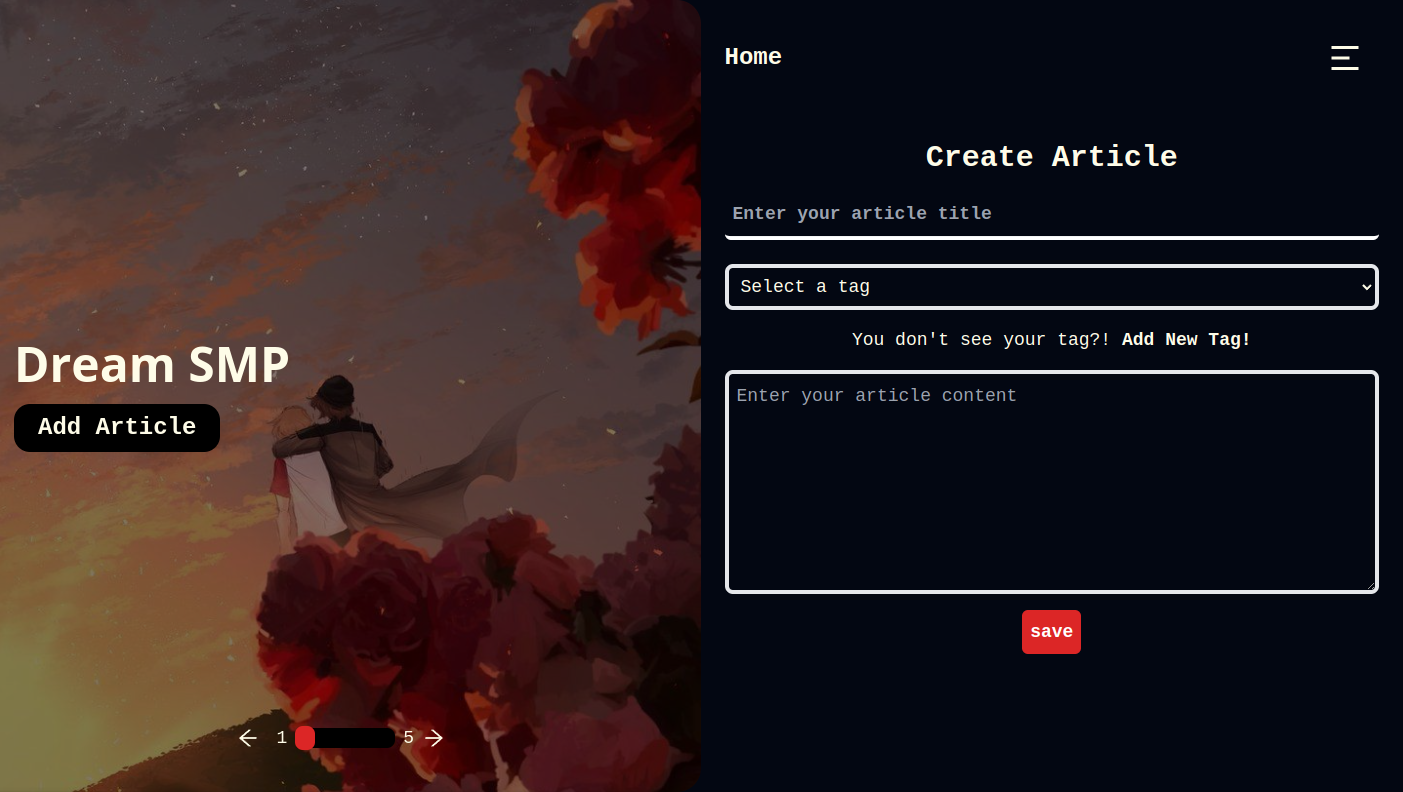
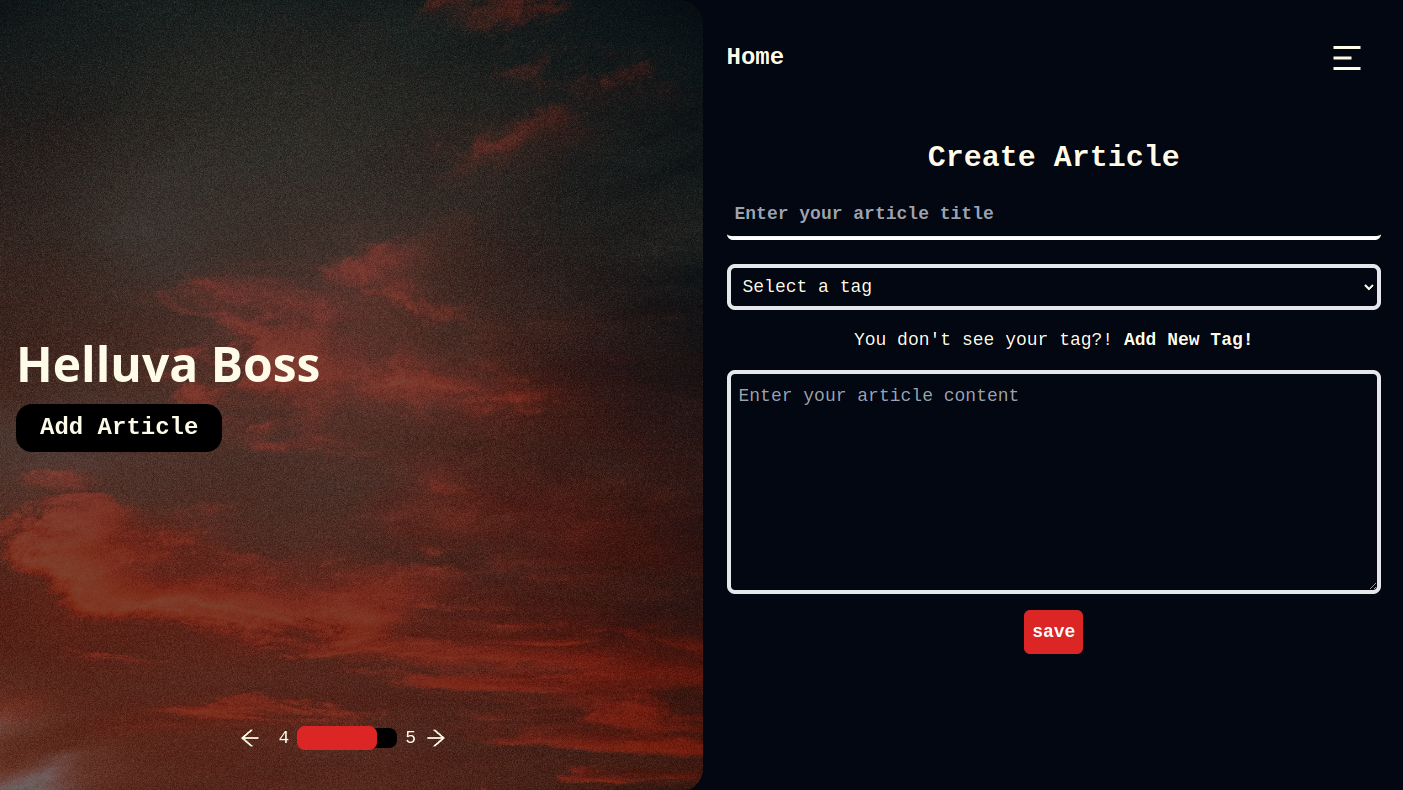
Add Delete an Article And Change a  Presentation

diff --git a/front/src/pages/Articles/ShowArticle/ShowArticle.jsx b/front/src/pages/Articles/ShowArticle/ShowArticle.jsx
@@ -1,6 +1,6 @@
 import React, { useEffect, useState } from 'react'
 import { $axios } from '../../../api'
-import { useParams } from 'react-router-dom'
+import { useNavigate, useParams } from 'react-router-dom'
 import { useForm } from 'react-hook-form'
 
 import styles from './ShowArticle.module.scss'
@@ -17,15 +17,14 @@ import { useAuth } from '../../../hooks/useAuth'
 
 
 const ShowArticle = () => {
+   const navigate = useNavigate()
    const {slug} = useParams()
    const {isAuth, userId} = useAuth()
    const [showForm, setShowForm] = useState(false)
-   const [loading, setLoading] = useState(false)
    const [tags, setTags] = useState([])
 
    const [article, setArticle] = useState()
    const [error, setError] = useState('')
-
 
    useEffect(() => {
       getArticle()
@@ -57,7 +56,7 @@ const ShowArticle = () => {
    })
 
    const changeArticle = async (data) => {
-      await $axios.put(`/articles/${id}`, {
+      await $axios.put(`/articles/${slug}`, {
          title: data.title,
          tag: +data.tag,
          content: data.content,
@@ -69,6 +68,19 @@ const ShowArticle = () => {
         .catch((err) => {
          setError(err.response.data.message)
         })
+        window.location.reload()
+   }
+
+   const deleteArticle = async () => {
+      await $axios.delete(`/articles/${slug}`)
+        .then((res) => {
+            navigate('/')
+         })
+        .catch((err) => {
+            setError(err.response.data.message)
+         })
+
+         window.location.reload()
    }
 
   return (
@@ -90,7 +102,7 @@ const ShowArticle = () => {
             <span>{article.createdAt}</span>
          </div>
       ): error? ( <h1>{error}</h1>) : (<Loader/>)}
-
+      { isAuth && article?.user?.id == userId ? (
       <form
          className={styles.article__form}
          onSubmit={handleSubmit(changeArticle)}
@@ -98,7 +110,7 @@ const ShowArticle = () => {
       >
          <div>
          <MdClose 
-                  onClick={() => setChangeFormShow(false)} 
+                  onClick={() => setShowForm(false)} 
                   className={styles.profile__change__close}
                />  
                <h2>Change Profile</h2>
@@ -108,7 +120,7 @@ const ShowArticle = () => {
                   name="title"
                   register={register}
                   options={{
-                     required: 'Email is required'
+                     required: 'Title is required'
                   }}   
                   placeholder="Enter your article title"
                   defaultValue={article?.title}
@@ -144,7 +156,11 @@ const ShowArticle = () => {
                {error && <p className={styles.error}>{error}</p>}
                <Button text='save' />
          </div>
+         <div className={styles.predelete}>
+            <Button text='Delete The Article' onClick={deleteArticle} />
+         </div>
       </form>
+       ): (<></>)}
     </div>
   )
 }

diff --git a/front/src/components/Slider/slider-data.js b/front/src/components/Slider/slider-data.js
@@ -1,27 +1,27 @@
 export const sliderData = [
    {
       id: 1, 
-      src: '/FandomsArts/7b80f3b4eaf17501380a598a3879f01c.jpg',
+      src: '/FandomsArts/Sunset.jpg',
       title: 'Dream SMP', 
    },
    {
       id: 2, 
-      src: '/FandomsArts/6a359c11501499ec9f4d586b8921bb6c.jpg',
+      src: '/FandomsArts/pexels-maria-orlova-4916112.jpg',
       title: "Heaven Official's Blessing", 
    }, 
    {
       id: 3, 
-      src: '/FandomsArts/d7550f86a6317dd01e3955e34c0ea081.jpg',
+      src: '/FandomsArts/pexels-orest-sv-1821721.jpg',
       title: 'Hazbin Hotel', 
    },
    {
       id: 4, 
-      src: '/FandomsArts/dc202bb412b1656788c303a520868270.jpg',
+      src: '/FandomsArts/pexels-toni-ferreira-3576683.jpg',
       title: 'Helluva Boss', 
    },
    {
       id: 5, 
-      src: '/FandomsArts/2041747ff968142af83f6c8126f08342.jpg',
+      src: '/FandomsArts/pexels-lida-5677062.jpg',
       title: 'Im|mortal', 
    },
 ]

diff --git a/front/src/pages/Articles/ShowArticle/ShowArticle.module.scss b/front/src/pages/Articles/ShowArticle/ShowArticle.module.scss
@@ -47,3 +47,7 @@
       opacity: 1;
    }
 }
+
+.predelete {
+   @apply   absolute bottom-5 w-full
+}

diff --git a/README.md b/README.md
@@ -4,17 +4,19 @@
 
 <p>node.js Express Prisma React TailwindCss</p>
 
-<img src="./present/HomePage.png" width="100%" height="100%" alt="home page">
+<img src="./present/Home.png" width="100%" height="100%" alt="home page">
 
 <img src="./present/Menu.png" width="100%" height="100%" alt="menu">
 
 <img src="./present/SignIn.png" width="100%" height="100%" alt="SignIn">
 
-<img src="./present/Tags.png" width="100%" height="100%" alt="home page">
+<img src="./present/Tags.png" width="100%" height="100%" alt="tags">
 
-<img src="./present/Profile.png" width="100%" height="100%" alt="home page">
+<img src="./present/Profile.png" width="100%" height="100%" alt="profile">
 
-<img src="./present/ArticleShow.png" width="100%" height="100%" alt="home page">
+<img src="./present/ShowOneArticle.png" width="100%" height="100%" alt="Article Show">
 
-<img src="./present/AddNewArticle.png" width="100%" height="100%" alt="home page">
+<img src="./present/UpdateOneArticle.png" width="100%" height="100%" alt="Update One Article">
+
+<img src="./present/AddNewArticle.png" width="100%" height="100%" alt="Add New Article">
 
